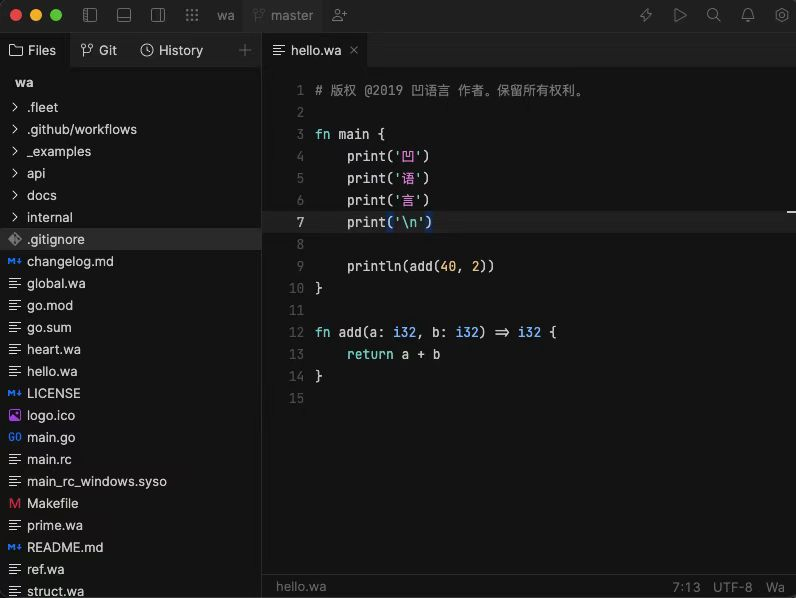
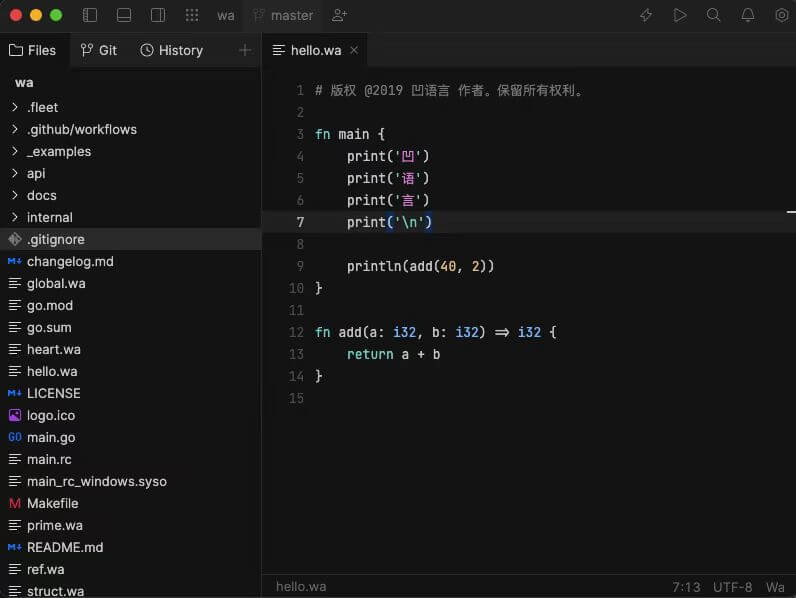
压缩图像

Changed region(s): [[0.0, 0.9933, 0.0905, 1.0]]

diff --git a/docs/daily/smalltalk/st0011.md b/docs/daily/smalltalk/st0011.md
@@ -137,7 +137,7 @@ func main() {
 
 目前已经支持素数例子的执行：
 
-![](/st0011-08.png)
+![](/st0011-08.jpg)
 
 更新路线图：
 
